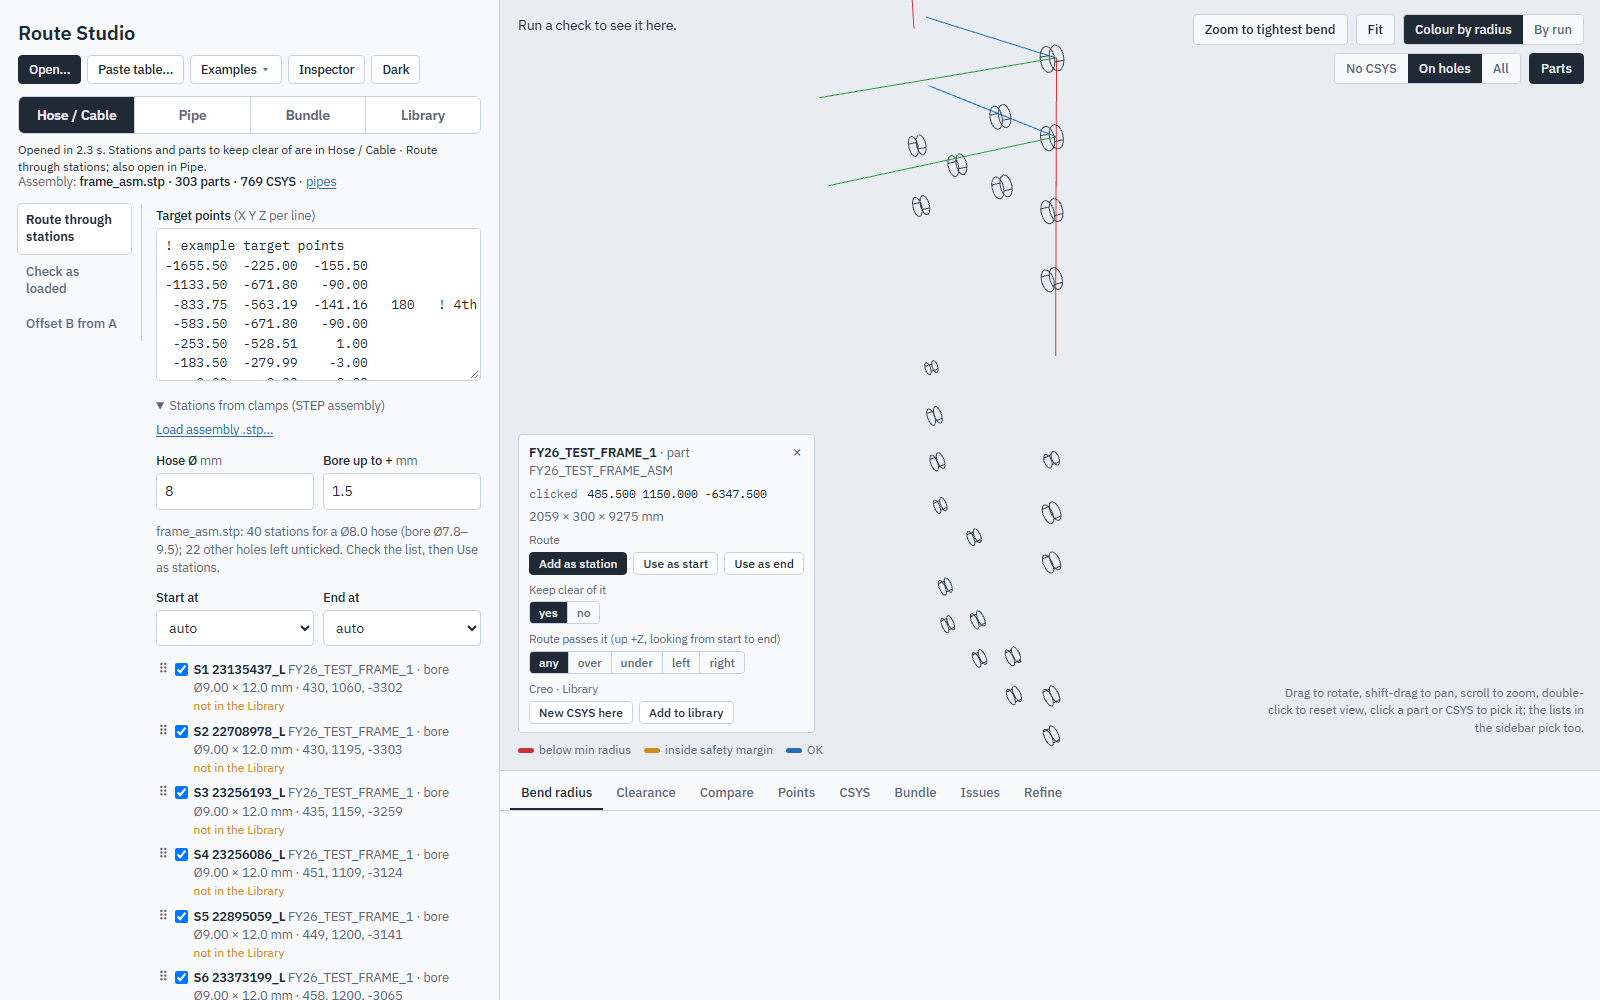
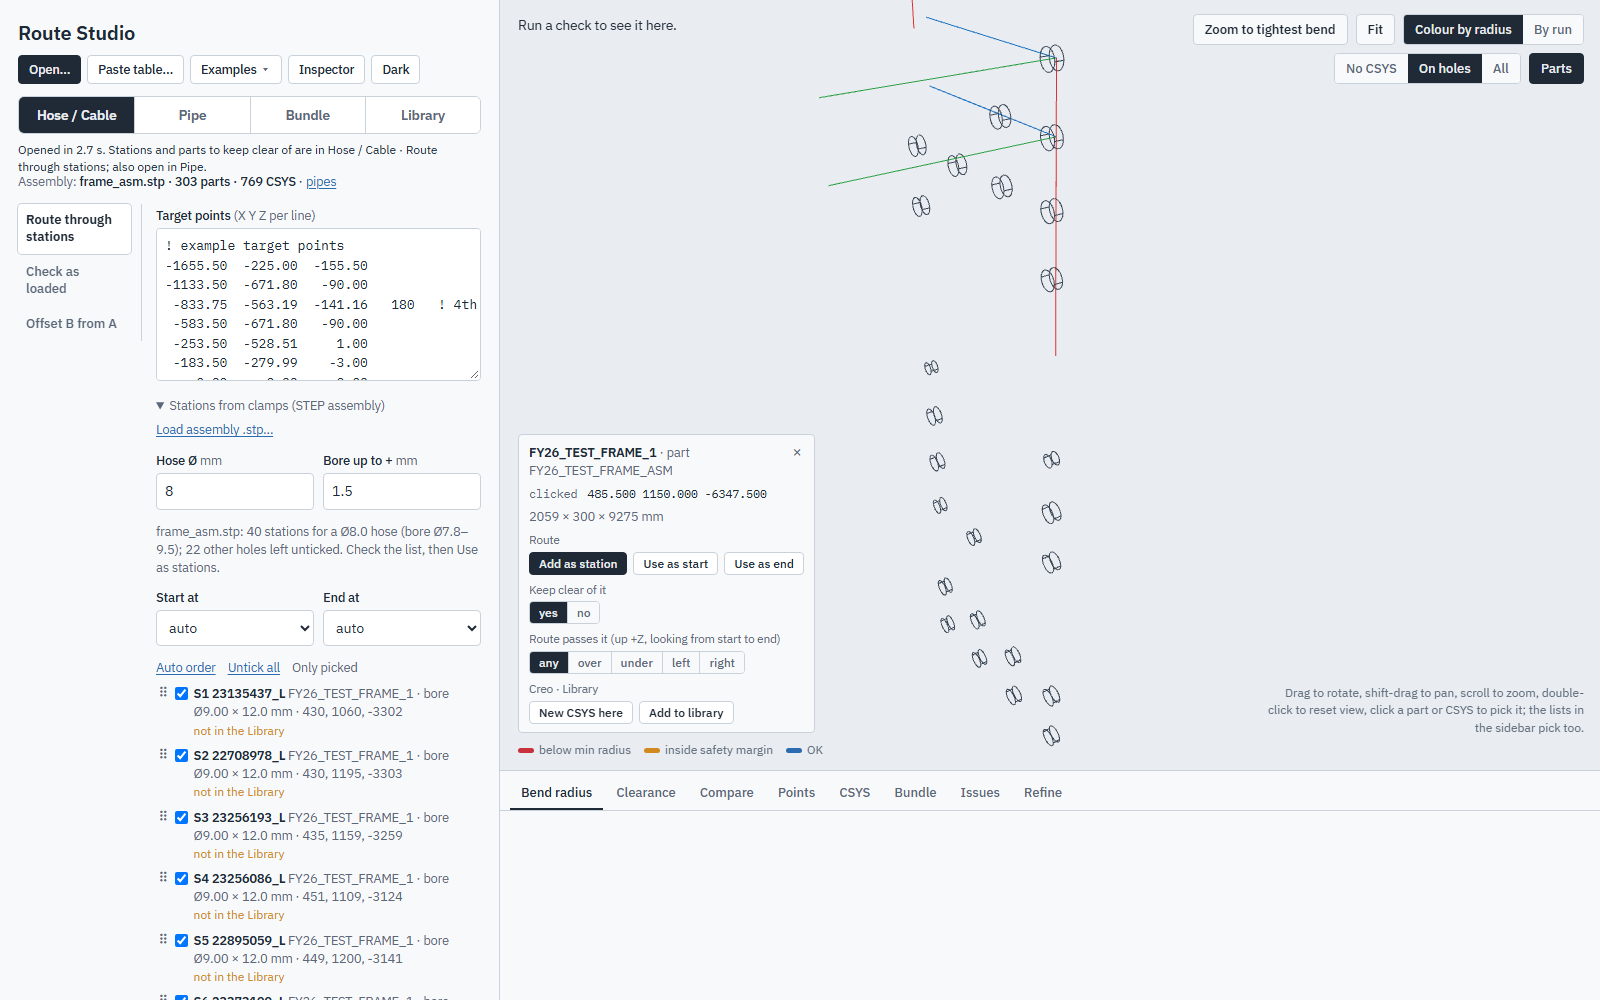
Stations from clamps: Untick all, Only picked, tick only between start and end
- Auto order, Untick all and Only picked above the list (Use as stations
  stays below it)
- With a start and an end both set (picked in 3D or chosen in the
  selects), only the holes within 150 mm of the straight line between them
  stay ticked; start, end and stations picked in 3D always stay ticked.
  Status: "6 of 40 holes ticked, the ones between start and end. Tick
  more in the list."
- A new status line drops the old Next: buttons
- ui-walk flow F: start and end picked on the frame, Only picked,
  Untick all

Changed region(s): [[0.0938, 0.651, 0.2812, 1.0]]

diff --git a/js/clamp-stations.js b/js/clamp-stations.js
@@ -100,8 +100,17 @@ root.ClampStations=API;
 // ---------------- UI ----------------
 if(typeof document==='undefined'||!document.getElementById('csBox'))return;
 // extra: stations picked in the 3D view (a connector port, a CSYS with no hole, a point on a part); kept across refreshes
-const CS={own:null,list:[],use:new Set(),start:null,end:null,extra:[],next:1e6,near:new Map()};
-const say=(m,bad)=>{const e=$('statusCs');e.textContent=m;e.style.color=bad?'var(--bad)':'';};
+// picked: ids of the stations picked in the 3D view (a hole already in the list keeps its id)
+const CS={own:null,list:[],use:new Set(),start:null,end:null,extra:[],next:1e6,near:new Map(),picked:new Set()};
+// a start and an end both set: tick only the holes within BETWEEN mm of the straight line from start to end (start, end and
+// stations picked in 3D stay ticked); the rest stay listed, unticked
+const BETWEEN=150;
+function between(){const a=CS.list.find(s=>s.id===CS.start),b=CS.list.find(s=>s.id===CS.end);if(!a||!b)return'';
+  const ab=sub(b.c,a.c),L2=dot(ab,ab)||1e-12,off=c=>{const t=Math.max(0,Math.min(1,dot(sub(c,a.c),ab)/L2));return dist(c,[0,1,2].map(k=>a.c[k]+ab[k]*t));};
+  const pool=CS.list.filter(s=>s.use||CS.picked.has(s.id));CS.near.clear();
+  CS.use=new Set(pool.filter(s=>s.id===a.id||s.id===b.id||CS.picked.has(s.id)||off(s.c)<=BETWEEN).map(s=>s.id));
+  autoOrder();return`${CS.use.size} of ${pool.length} holes ticked, the ones between start and end. Tick more in the list.`;}
+const say=(m,bad)=>{const e=$('statusCs');e.textContent=m;e.style.color=bad?'var(--bad)':'';if(typeof nextClear==='function')nextClear('statusCs');};
 const openAsm=()=>typeof ASM!=='undefined'&&ASM&&ASM.r?ASM:null;
 const src=()=>CS.own||openAsm();
 const libOf=r=>typeof FixLib==='undefined'?null:x=>{const I=r.instances&&r.instances[x.inst];return FixLib.match(x.name,x.label,I&&I.part&&I.part.name);};
@@ -112,7 +121,7 @@ const tf=p=>frame()?cadToFrame(p):p,tv=v=>frame()?V.sub(cadToFrame(v),cadToFrame
 const ticked=()=>CS.list.filter(s=>CS.use.has(s.id));
 const tag=s=>`${s.name} · ${s.part}`;
 
-function refresh(note){const a=src();CS.near=new Map();$('csUseAsm').hidden=!openAsm()||CS.own===null;
+function refresh(note){const a=src();CS.near=new Map();CS.picked=new Set(CS.extra.map(s=>s.id));$('csUseAsm').hidden=!openAsm()||CS.own===null;
   if(!a){CS.list=[];render();return say('Load a STEP assembly (or open one in Pipe · Check .pts against pipe). A fixing is a hole with a coordinate system on its axis, inside the hole.');}
   const o=opt(a.r),keep=[CS.start,CS.end].map(id=>CS.extra.some(s=>s.id===id)?id:null);
   CS.list=candidates(a.r,o).concat(CS.extra);CS.use=new Set(CS.list.filter(s=>s.use).map(s=>s.id));
@@ -132,7 +141,7 @@ function autoOrder(){const T=ticked();if(T.length<2){render();return;}
 function render(){const box=$('csList'),T=ticked();
   const opts=sel=>`<option value="">auto</option>`+T.map(s=>`<option value="${s.id}" ${sel===s.id?'selected':''}>${esc(tag(s))}</option>`).join('');
   $('csStart').innerHTML=opts(CS.start);$('csEnd').innerHTML=opts(CS.end);
-  $('csAuto').disabled=$('csUse').disabled=T.length<2;
+  $('csAuto').disabled=$('csUse').disabled=T.length<2;$('csNone').disabled=!T.length;$('csPicked').disabled=!CS.list.some(s=>CS.picked.has(s.id));
   const why=T.length<2?(CS.list.length?'Tick at least 2 stations.':''):'';['csAuto','csUse'].forEach(id=>$(id).title=why);
   if(!CS.list.length){box.innerHTML='';$('csLen').textContent='';return;}
   let k=0;
@@ -191,8 +200,12 @@ $('csFile').onchange=e=>{const f=e.target.files[0];e.target.value='';if(!f)retur
 document.addEventListener('asm:loaded',()=>{if(!CS.own&&!$('csBox').hidden)refresh();});
 $('csUseAsm').onclick=()=>{CS.own=null;refresh();};
 $('csAuto').onclick=autoOrder;
+$('csNone').onclick=()=>{CS.use.clear();CS.near.clear();CS.start=CS.end=null;render();say(`All ${CS.list.length} unticked. Tick stations in the list, or pick them in 3D.`);};
+$('csPicked').onclick=()=>{CS.use=new Set(CS.list.filter(s=>CS.picked.has(s.id)).map(s=>s.id));CS.near.clear();
+  if(!CS.use.has(CS.start))CS.start=null;if(!CS.use.has(CS.end))CS.end=null;autoOrder();say(`${CS.use.size} station${CS.use.size===1?'':'s'} picked in 3D ticked; the rest unticked.`);};
 $('csUse').onclick=useAsStations;
-['csStart','csEnd'].forEach(id=>$(id).onchange=()=>{const v=$(id).value===''?null:+$(id).value;if(id==='csStart')CS.start=v;else CS.end=v;autoOrder();});
+['csStart','csEnd'].forEach(id=>$(id).onchange=()=>{const v=$(id).value===''?null:+$(id).value;if(id==='csStart')CS.start=v;else CS.end=v;
+  const bt=CS.start!=null&&CS.end!=null?between():'';if(bt)say(bt);else autoOrder();});
 ['csD','csTol'].forEach(id=>$(id).onchange=()=>refresh());
 $('csDirs').oninput=()=>store.set('rs.csDirs',$('csDirs').value);
 $('csHold').onchange=()=>store.set('rs.csHold',$('csHold').checked?'1':'0');
@@ -210,13 +223,13 @@ function usePick(p,r,as){
   if(!CS.list.length&&src())refresh();
   const st=fromPick(p,r);let s=CS.list.find(x=>len(sub(x.c,st.c))<0.5);
   if(!s){s={id:CS.next++,...st,role:'picked',use:true,reason:'picked in 3D'};CS.extra.push(s);CS.list.push(s);}
-  CS.use.add(s.id);if(as==='start'){CS.start=s.id;if(CS.end===s.id)CS.end=null;}if(as==='end'){CS.end=s.id;if(CS.start===s.id)CS.start=null;}
-  $('csBox').open=true;autoOrder();
+  CS.use.add(s.id);CS.picked.add(s.id);if(as==='start'){CS.start=s.id;if(CS.end===s.id)CS.end=null;}if(as==='end'){CS.end=s.id;if(CS.start===s.id)CS.start=null;}
+  $('csBox').open=true;const bt=as!=='station'&&CS.start!=null&&CS.end!=null?between():'';if(!bt)autoOrder();
   const verb=as==='station'?'Station added':as==='start'?'Start set':'End set',on=st.part?` on ${st.part}`:'';
   const m=st.snapped!=null?`${verb} at the Ø${fmt(st.D,1)} hole${on}, ${fmt(st.snapped,0)} mm from where you clicked.`
     :p.kind==='csys'?`${verb} at ${st.name}${st.D?` (Ø${fmt(st.D,1)} hole${on})`:''}${st.d?'':'; direction left free'}.`
     :`${verb} at the clicked point${on}; direction left free.`;
-  say(`${m} ${ticked().length} stations ticked.`);return m;}
+  say(bt?`${m} ${bt}`:`${m} ${ticked().length} stations ticked.`);return bt?`${m} ${bt}`:m;}
 // for Suggest extra clamps (clamp-suggest.js): what is ticked, and adding its suggestions as stations
 root.clampStationsTicked=()=>ticked();
 root.csAddStations=L=>{if(!CS.list.length&&src())refresh();

diff --git a/tests/ui-walk.js b/tests/ui-walk.js
@@ -149,6 +149,21 @@ const server = http.createServer((q, s) => {
     if (await pickCsys()) step("asmSetPick() on a CSYS on a hole", (await pickMsg()).slice(0, 160));
     await shot("F6-pick-dark");
     await pg.click("#shTheme"); await pg.evaluate(() => asmSetPick(null));
+    // start and end picked in 3D: only the holes between them stay ticked
+    const ends = await pg.evaluate(() => { const names = new Set([...document.querySelectorAll("#csList > .csrow b")].map(b => b.textContent.replace(/^S\d+ /, "").trim()));
+      const H = (AV.shown || []).filter(c => c.hole && !c.made && names.has(c.name)), d = (a, b) => Math.hypot(...[0, 1, 2].map(k => a.o[k] - b.o[k]));
+      for (const a of H) { const b = H.find(b => d(a, b) > 500 && d(a, b) < 1500); if (b) return [a.name, b.name, Math.round(d(a, b))]; } return null; });
+    if (ends) {
+      const pickNamed = n => pg.evaluate(n => { const c = AV.shown.find(c => c.name === n && c.hole); asmSetPick({ kind: "csys", c, inst: c.inst }); }, n);
+      await pickNamed(ends[0]); await act("Use as start"); step(`Use as start: ${ends[0]}`, await text("statusCs"));
+      await pickNamed(ends[1]); await act("Use as end"); step(`Use as end: ${ends[1]} (${ends[2]} mm away)`, await text("statusCs"));
+      const tk2 = await pg.evaluate(() => document.querySelectorAll("#csList .csrow input[type=checkbox]:checked").length);
+      console.log(`     ticked now: ${tk2}`);
+      await pg.evaluate(() => { asmSetPick(null); document.getElementById("csBox").scrollIntoView({ block: "start" }); });
+      await shot("F7-start-end");
+      await pg.click("#csPicked"); step("Only picked", await text("statusCs"));
+      await pg.click("#csNone"); step("Untick all", await text("statusCs"));
+    }
   }
 
   console.log("\nSummary");

diff --git a/index.html b/index.html
@@ -55,8 +55,9 @@
         <div><label for="csStart">Start at</label><select id="csStart"></select></div>
         <div><label for="csEnd">End at</label><select id="csEnd"></select></div>
       </div>
+      <div class="presets"><button type="button" id="csAuto" disabled>Auto order</button><button type="button" id="csNone" disabled>Untick all</button><button type="button" id="csPicked" disabled title="Keep only the stations picked in the 3D view">Only picked</button></div>
       <div id="csList" class="cdparts cslist"></div>
-      <div class="presets"><button type="button" id="csAuto" disabled>Auto order</button><button type="button" id="csUse" disabled>Use as stations</button><span class="unit" id="csLen"></span></div>
+      <div class="presets"><button type="button" id="csUse" disabled>Use as stations</button><span class="unit" id="csLen"></span></div>
       <div class="csask" id="csAsk" hidden role="alertdialog" aria-labelledby="csAskTxt"><span id="csAskTxt"></span> <span class="presets"><button type="button" id="csYes">Replace</button><button type="button" id="csNo">Keep</button></span></div>
       <label class="chk" style="margin-top:10px"><input type="checkbox" id="csHold" checked>Hold the bore direction at each station when checking</label>
       <label for="csDirs">Bore directions <span class="unit">(dX dY dZ per target point, - = free; optional)</span></label>
